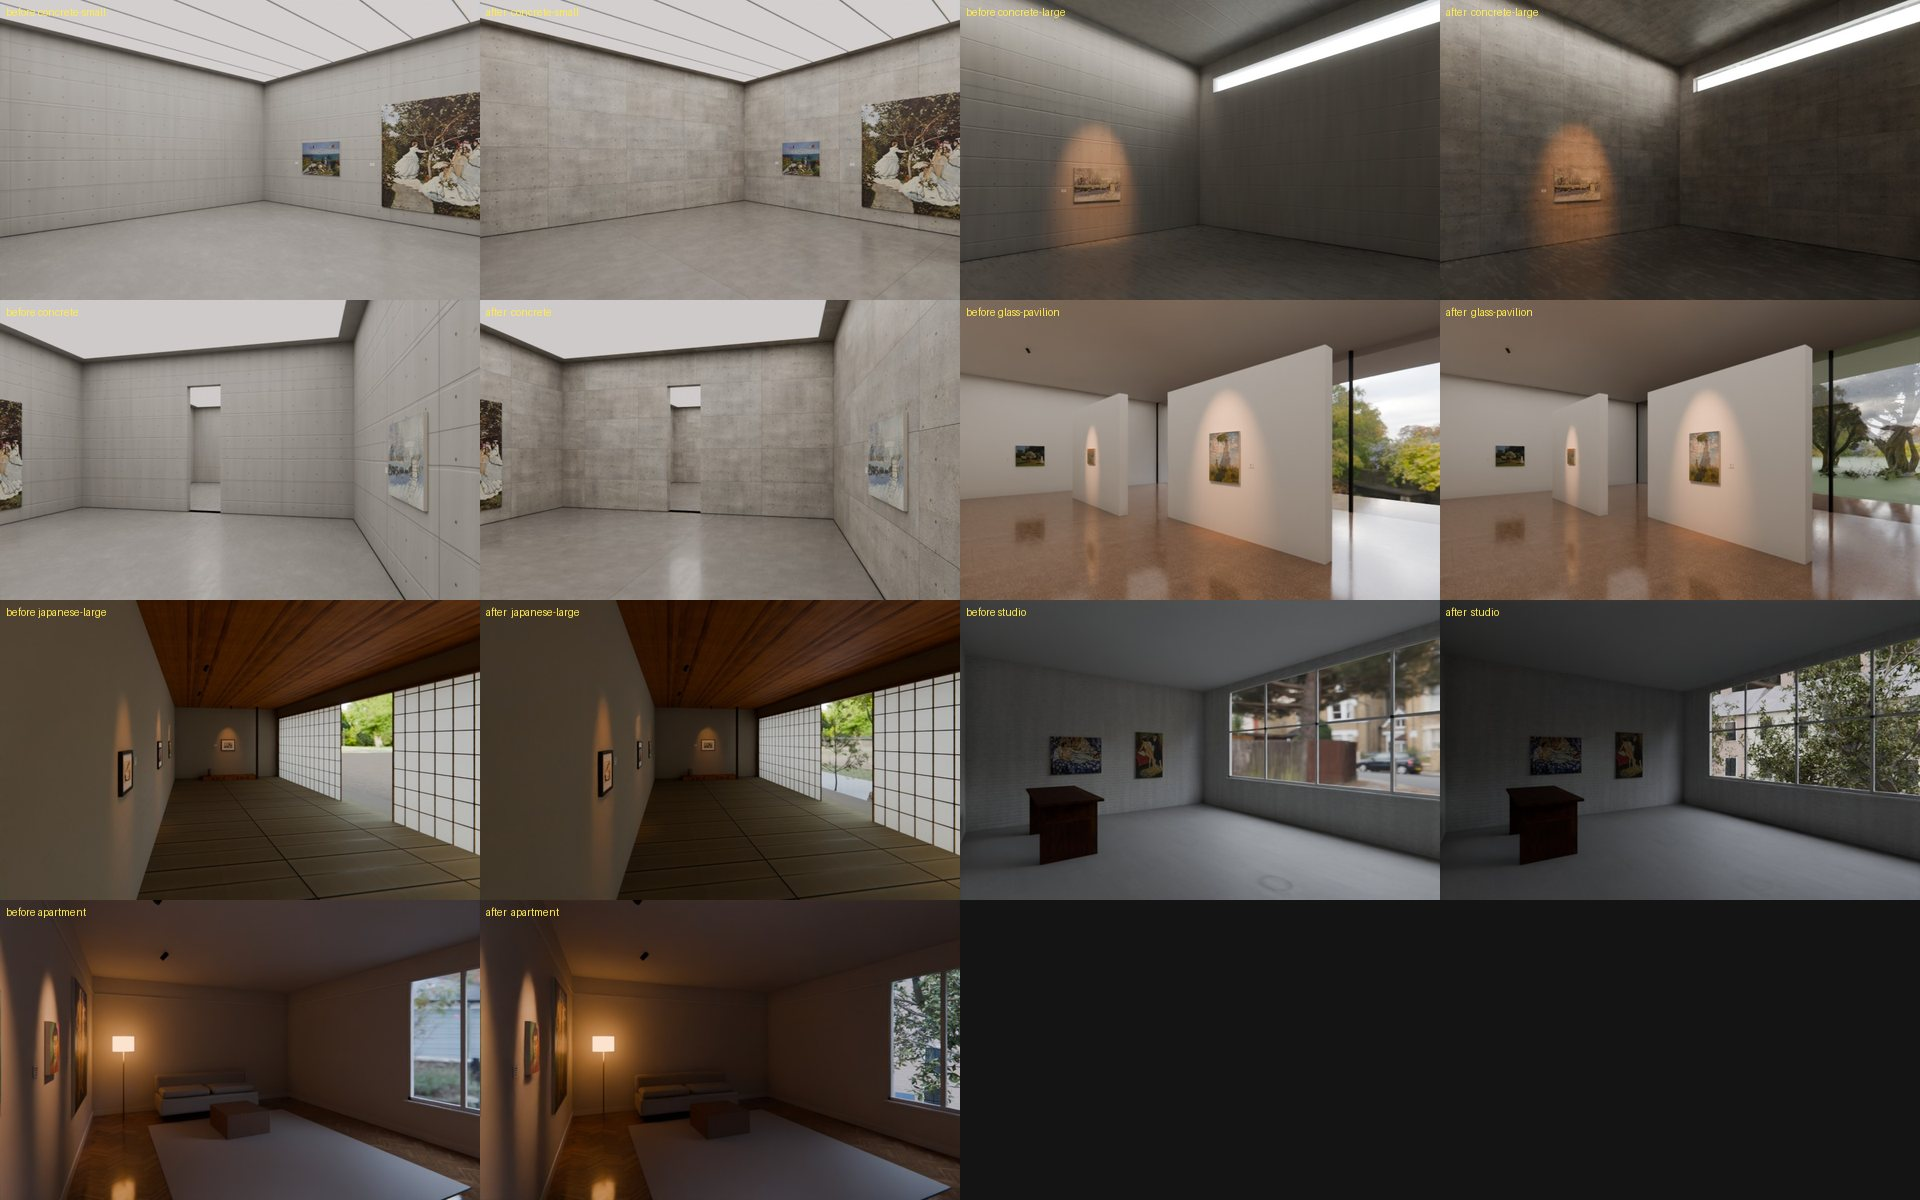
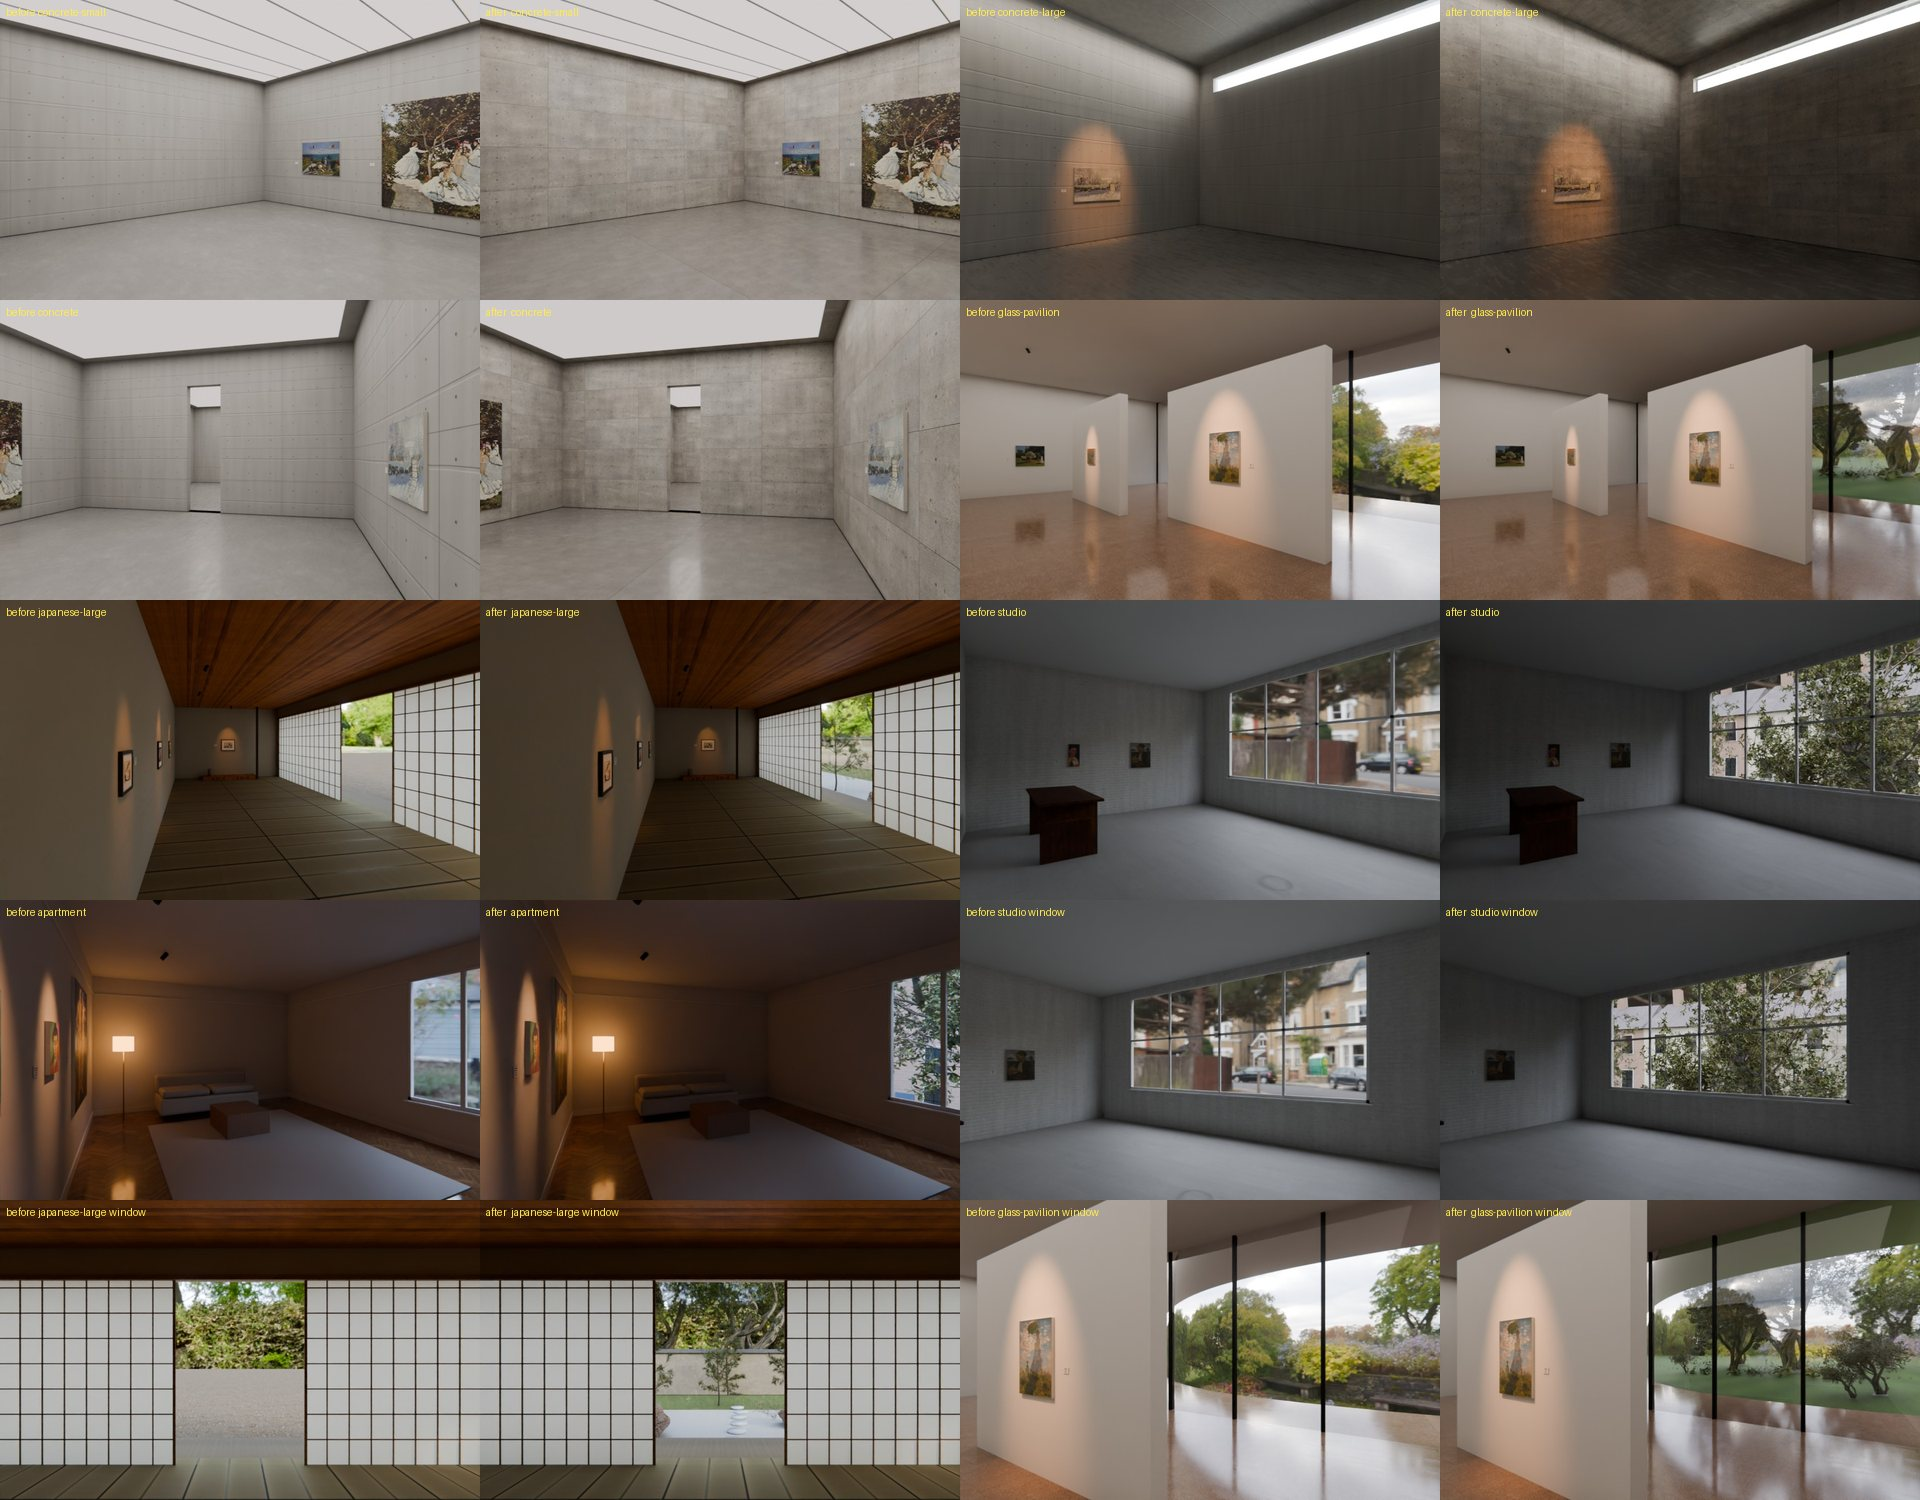
Rooms: before/after sheet and notes (Hebrew)

diff --git a/studio/design/night-2026-11-09/rooms.md b/studio/design/night-2026-11-09/rooms.md
@@ -29,6 +29,12 @@
 כל דגימה עולה יותר: חוץ עם עצים ~50% יותר, בטון חדש ~35% יותר (אחרי אופטימיזציה, בהתחלה פי 2.4: רעש Perlin בתוך ה-bump). כדי לא להגדיל את הג'וב קיצצתי דגימות לסוגים האלה: בטון x0.56, פביליון, יפני, סטודיו, דירה x0.47 (במקום 0.7); לופט נשאר 0.45. דגימות המשטחים ל-On View קוצצו באותו יחס. זיכרון שיא מקומי: ~6 GB (ג'קרנדה כבדה); בשרת (16 GB) צריך להיות בסדר, אבל זו ריצה ראשונה עם 200 MB של מודלים להורדה (נשמרים ב-cache של ה-workflow).
 בדיקה מקומית: `ROOMS_CAM=x,y,z,lx,ly,lz,lens` נותן נקודת מבט לבדיקה (חלון מקרוב).
 
+## הערכה כנה, מה "בהחלט יותר אמיתי" ומה לא
+- **בטון ובחדר היפני: בהחלט יותר אמיתיים** (בטון: כל לוח אחר, חריצים וחורים; היפני: חצר עם שכבות, חומה, אורן).
+- **סטודיו**: יש עכשיו פרלקסה אמיתית (עלים בחזית, בתים מאחור), אבל עץ אחד ליד החלון מכסה הרבה, וה"לפני" (תצלום HDRI של רחוב) מרשים יותר במבט ראשון. אם זה נראה לך גרוע, אפשר להסיר עצי מדרכה מהקו שבין המצלמה לחלון.
+- **פביליון**: העצים טובים, המדשא עדיין שטוח ובהיר.
+- שימו לב: ההשוואה "לפני" בסטודיו היא באותם נתוני יצירות (העתקתי את `data/demo` העדכני); יצירות הסטודיו קטנות כי הנתונים השתנו בהלילה, לא בגללי.
+
 ## מה נשאר
 - לבדוק את הריצה בשרת: זמן לכל סוג (אמור להישאר מתחת ל-5 שעות), זיכרון, ואם ההורדות של Poly Haven עברו (`jacaranda_tree`, `island_tree_01/02`, `shrub_02`, `pine_sapling_small`, `boulder_01`, `grass_medium_*`, `fern_02`).
 - מדשא עדיין הכי חלש: נראה כמישור עם פסים. צריך עוד עשב קרוב (חרוטי עשב על הקרקע) או displacement.
